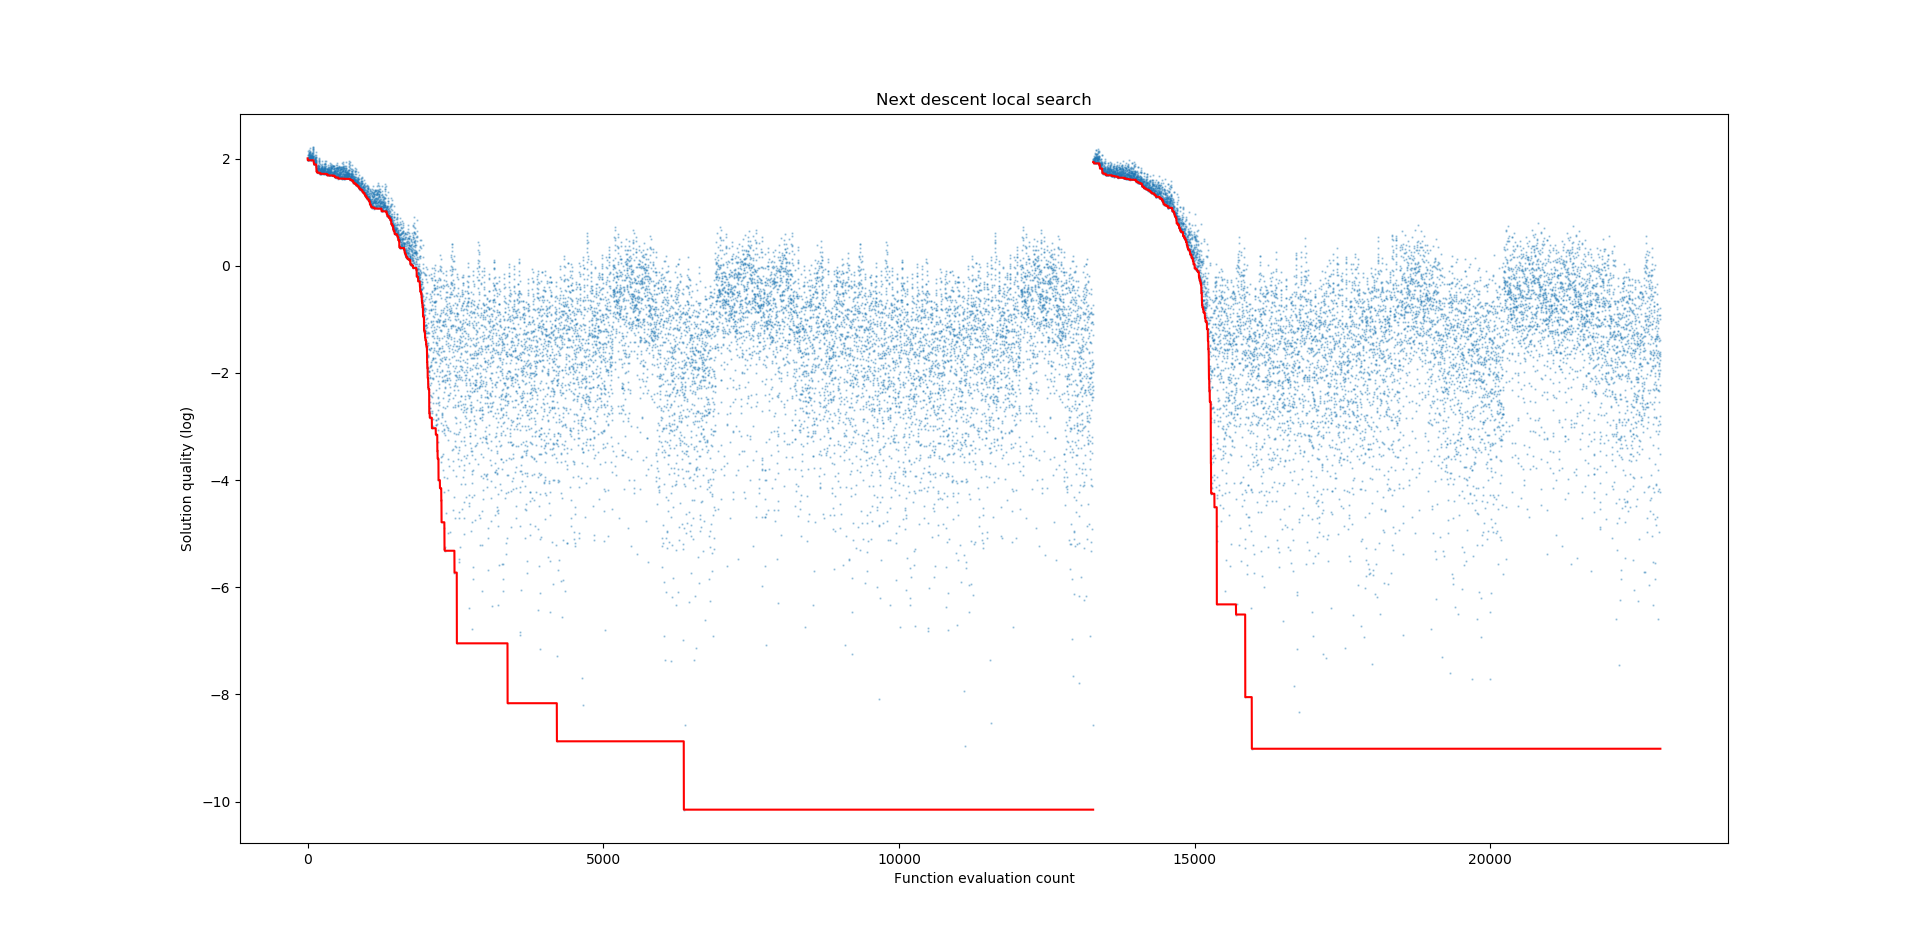
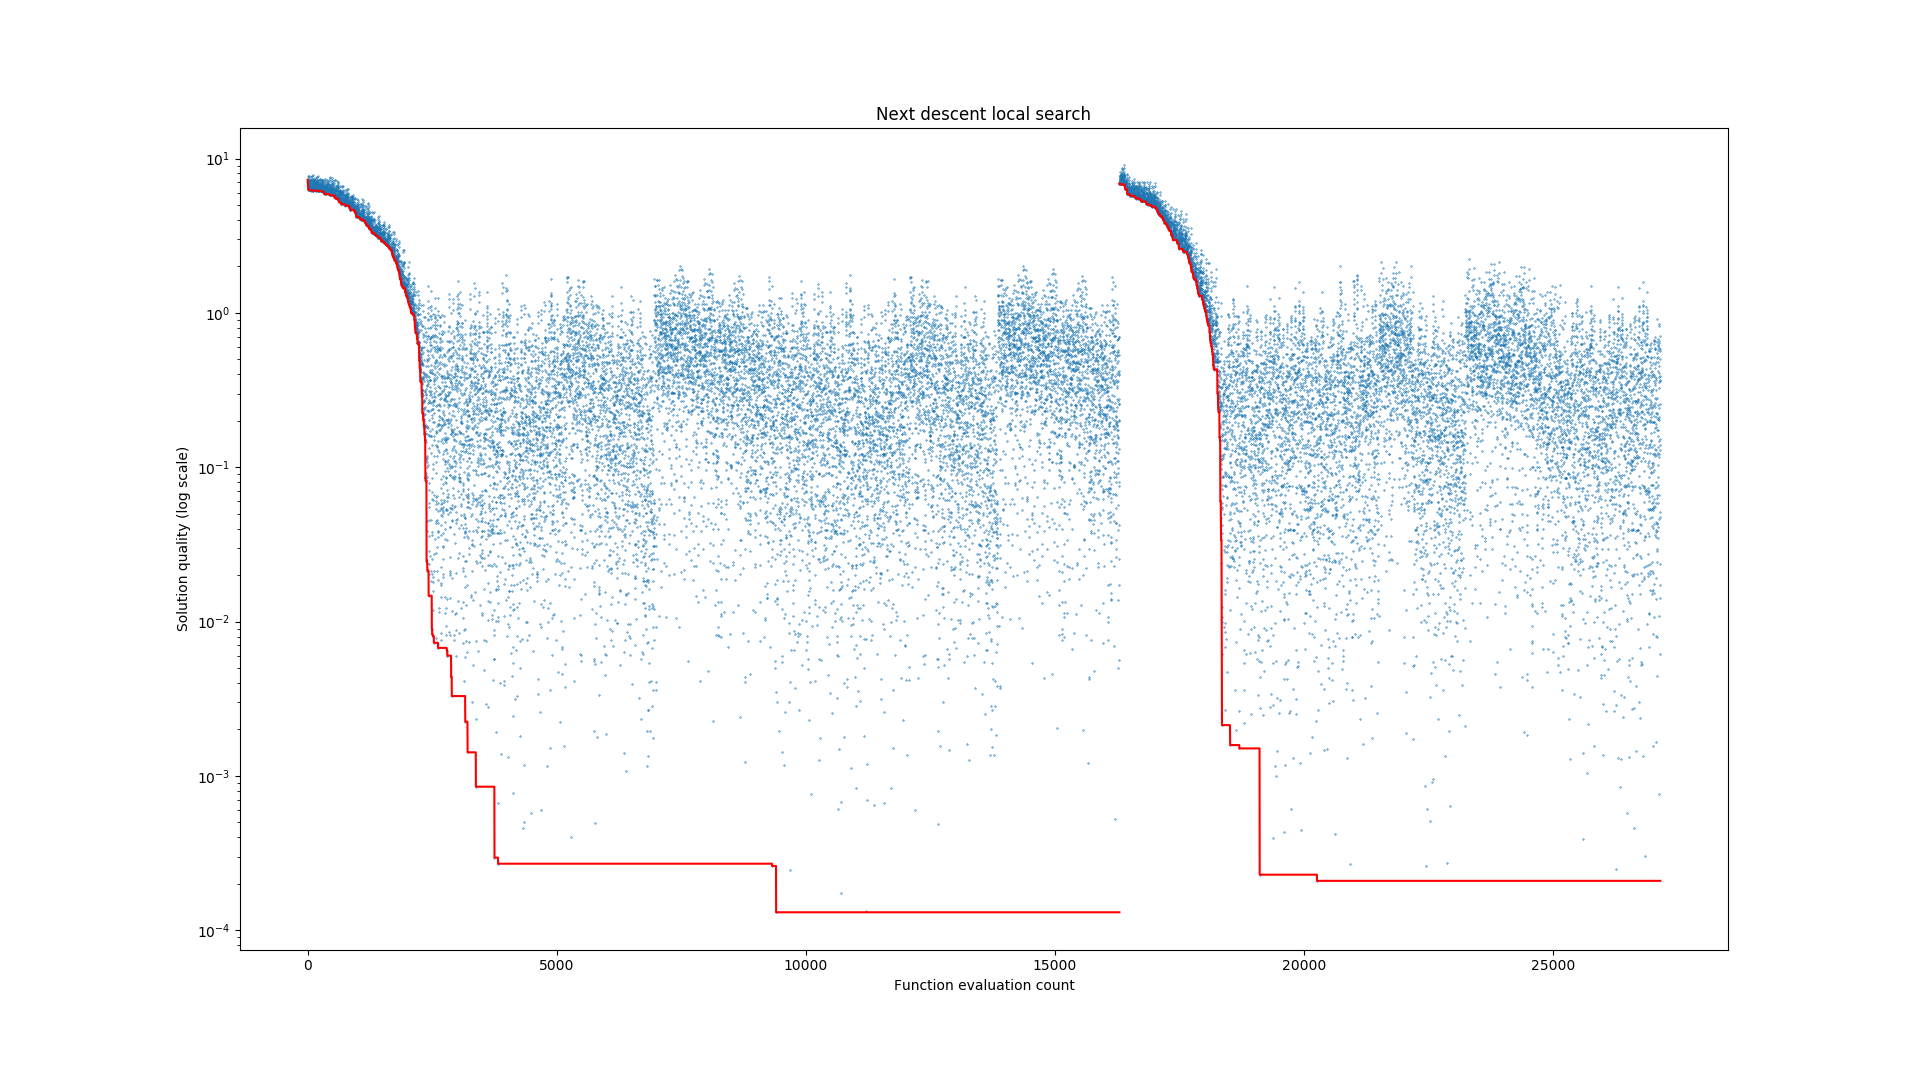
Fixes

diff --git a/A3.py b/A3.py
@@ -44,11 +44,12 @@ for k in range(2):
     last_swap = (0, 0)
 
     while(not converged):
-        for a in range(120):
+        for a in range(119):
             for b in range(a + 1, 120):
                 # Stop if the neighbourhood surrounding the last swap has been searched
                 if (a, b) == last_swap:
                     converged = True
+                    break
                 else:
                     if b != a + 60 and w[s[a]] != w[s[b]]:
                         zy_new = zy - w[s[a]]*y[a] + w[s[b]]*y[a] - w[s[b]]*y[b] + w[s[a]]*y[b]
@@ -78,10 +79,11 @@ for k in range(2):
     print("dX =", zx/totalweight)
     print("z =", z/totalweight)
 
-plt.scatter(x=range(len(zArray)), y=[math.log(x/totalweight) for x in zArray], marker='x', alpha=0.5, s=0.2)
-plt.plot([math.log(x/totalweight) for x in bestzArray], 'r')
+plt.scatter(x=range(len(zArray)), y=[x/totalweight for x in zArray], marker='x', alpha=0.5, s=1)
+plt.plot([x/totalweight for x in bestzArray], 'r')
 plt.xlabel("Function evaluation count")
-plt.ylabel("Solution quality (log)")
+plt.ylabel("Solution quality (log scale)")
+plt.yscale('log')
 plt.title("Next descent local search")
 plt.show()
 

diff --git a/tabu.py b/tabu.py
@@ -43,7 +43,7 @@ worsen_count = 0
 while(not converged):
     neighbourhood = []
     iter_count += 1
-    for a in range(120):
+    for a in range(119):
         # Skip tabu swaps
         if (not (iter_count - history[s[a]] < h)):
             for b in range(a + 1, 120):
@@ -89,9 +89,10 @@ totalweight = sum(w)
 z = min(bestzArray)/totalweight
 print("z =", z)
 
-plt.scatter(x=range(len(zArray)), y=[math.log(x/totalweight) for x in zArray], alpha=0.5, s=0.2)
-plt.plot([math.log(x/totalweight) for x in bestzArray], 'r')
+plt.scatter(x=range(len(zArray)), y=[x/totalweight for x in zArray], alpha=0.5, s=0.2)
+plt.plot([x/totalweight for x in bestzArray], 'r')
 plt.xlabel("Function evaluation count")
-plt.ylabel("Solution quality (log)")
+plt.ylabel("Solution quality (log scale)")
+plt.yscale('log')
 plt.title("Tabu search")
 plt.show()

diff --git a/200iters.py b/200iters.py
@@ -39,11 +39,12 @@ for k in range(200):
     last_swap = (0, 0)
 
     while(not converged):
-        for a in range(120):
+        for a in range(119):
             for b in range(a + 1, 120):
                 # Stop if the neighbourhood surrounding the last swap has been searched
                 if (a, b) == last_swap:
                     converged = True
+                    break
                 else:
                     if b != a + 60 and w[s[a]] != w[s[b]]:
                         zy_new = zy - w[s[a]]*y[a] + w[s[b]]*y[a] - w[s[b]]*y[b] + w[s[a]]*y[b]
